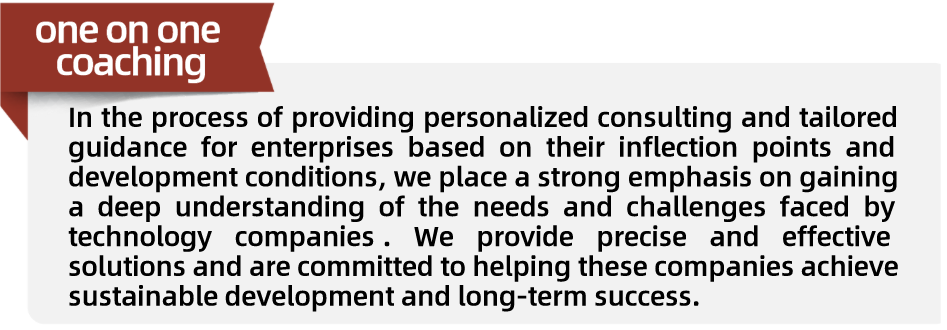
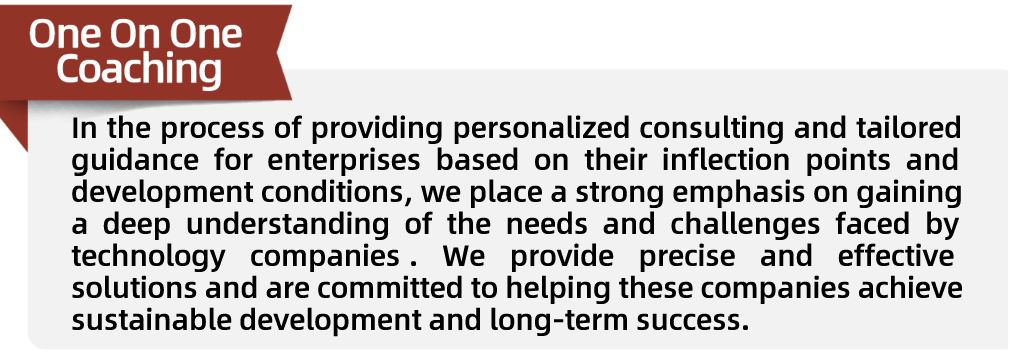
修改投后赋能大小写，替换图片

diff --git a/public/css/flex_style.css b/public/css/flex_style.css
@@ -2515,7 +2515,7 @@ body{
     #empower_item2 .empower_item2_subTitle{font-size:1.2rem;font-weight:300;color:#000;letter-spacing: 0;margin-bottom:3rem;padding:0 1.5rem;}
     #empower_item2 .empower_item2_subTitle br{display: none;}
     #empower_item2 .empower_train{display:none;}
-    #empower_item2  .mobile_train{display: block;width:100%;}
+    #empower_item2  .mobile_train{display: block;width:100%;padding-left:2rem;padding-right:2rem;}
     #empower_item2  .mobile_train2{display:block;padding:2.4rem 2rem 0;}
     .empower_item3{padding-bottom:11.2rem!important;}
     #empower_item3 .founder_title{height:9.3rem;font-size:2rem;line-height:1.5;font-weight:700;padding-top:2.4rem;}

diff --git a/resources/views/empower.blade.php b/resources/views/empower.blade.php
@@ -142,7 +142,7 @@
         </div>
 
         <div id="empower_item2" style="padding-top:66px;margin-top:-66px;">
-            <div class="empower_item2_title">Various Training and Coaching Programs</div>
+            <div class="empower_item2_title">VARIOUS TRAINING AND COACHING PROGRAMS</div>
             <div class="empower_item2_subTitle">By focusing on the key areas of iterative upgrading at different stages of technology companies,<br> we effectively assist enterprises in exploring the path to success.</div>
             <div class="wd_1280 empower_train">
                 <ul class="empower_train_top">
@@ -165,18 +165,21 @@
                 <div class="item_train_row7_colum2">Finance<br>(budget and business<br> management)</div>
                 <div class="item_train_row8_colum2">Incentives</div>
 
-                <div class="item_coach_title">one on<br>one coaching</div>
+                <div class="item_coach_title">One On One<br> Coaching</div>
                 <div class="item_coach_des">In the process of providing personalized consulting and tailored guidance for enterprises based on their inflection points and development conditions, we place a strong emphasis on gaining a deep understanding of the needs and challenges faced by technology companies. We provide precise and effective solutions and are committed to helping these companies achieve sustainable development and long-term success.</div>
             </div>
             <!-- mobile -->
-            <img class="mobile_train" src="img/empower_tran_mobile.png" alt="">
+            
+            <div class="mobile_train">
+                <img  src="img/empower_tran_mobile.png" alt="">
+            </div>
             <div class="mobile_train2">
                 <img  src="img/empower_tran2_mobile.png" alt="">
             </div>
 
         </div>
         <div id="empower_item3" style="padding-top:66px;margin-top:-66px;padding-bottom:150px;">
-            <div class="founder_title">Founders’ Feedback</div>
+            <div class="founder_title">FOUNDERS’ FEEDBACK</div>
             <div class="wd_1280">
                 <ul class="founder_list">
                     <li class="founder_list_item">
